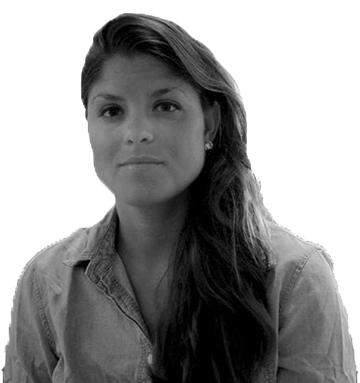
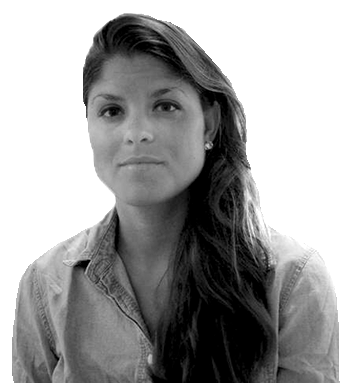
Links + Names
updated links to guest speaker and bfa website, updated photo of jessica, imported names in alpha order with links. Tested two photos (jake and jack), but letting you take over because i'm not sure how hoverable works. links are accessed through clicking the photos ideally

diff --git a/index.html b/index.html
@@ -57,6 +57,8 @@
     <img class="sideimg left bottom sizewidth" data-aos="fade-right" src="images/shapes/1.svg">
     <img class="sideimg right sizewidth" style="top: 9em;" data-aos="fade-left" src="images/shapes/2.svg">
   </section>
+
+<!-----------------------ABOUT SECTION----------------------------->
   <section class="blue" id="about">
     <div class="content">
       <div class="container">
@@ -76,7 +78,7 @@
               Friday, June 15 <br> Academic West 1-4PM <br>
             </h4>
             <h4>
-              Guest Speaker Eike Koenig <br> AW 204 11:30-1PM
+              Guest Speaker Jessica Karle <br> AW 204 11:30-1PM
             </h4>
               <div class="eight columns"></div>
           </div>
@@ -86,6 +88,9 @@
     <img class="sideimg left sizewidth" style="bottom: 4em;" data-aos="fade-right" src="images/shapes/3.svg">
     <img class="sideimg right sizeheight" style="top: 4em;" data-aos="fade-left" src="images/shapes/4.svg">
   </section>
+    
+    
+<!-------------JESSICA KARLE SECTION------------------------->
   <section class="orange" id="guest">
     <div class="content">
       <div class="container">
@@ -93,12 +98,13 @@
           <div class="seven columns">
             <h2>Jessica Karle</h2>
             <br><br>
-            <p>Jessica Karle is a designer and author currently based in San Francisco. She is the co-founder of prominent design publication, Kern and Bern and also serves the Head of Digital Design at Everlane. Alongside these accomplishments, Karle has worked many distinguished roles in companies such as Paperless Post and General Assembly. As a pioneer in digital design, come and hear Jessica talk about her experience in the industry.</p>
+            <p>Jessica Karle is a designer and author currently based in San Francisco. She is the co-founder of prominent design publication, Kern and Bern and also serves as the Head of Digital Design at Everlane. Alongside these accomplishments, Karle has worked many distinguished roles in companies such as Paperless Post and General Assembly. As a pioneer in digital design, come and hear Jessica talk about her experience in the industry.</p>
             <br><br>
-            <a href="#" class="blue button">View Her Work</a>
+            <a href="http://www.jessicakarle.com/" class="blue button" target="_blank">View Her Work</a>
           </div>
           <div class="four columns" style="margin-top: 1.5%; margin-left: 7%;">
             <h1>Guest Speaker</h1>
+            <div class="eight columns"><img src="images/Jess-BW.png"></div>
           </div>
         </div>
       </div>
@@ -106,6 +112,8 @@
     <img class="sideimg left sizeheight" style="bottom: 4em;" data-aos="fade-right" src="images/shapes/5.svg">
     <img class="sideimg right sizewidth" style="top: 4em;" data-aos="fade-left" src="images/shapes/6.svg">
   </section>
+    
+<!--------------BA SENIORS SECTION----------------------------->
   <section class="white" id="ba">
     <div class="content">
       <div class="container">
@@ -114,18 +122,176 @@
             <h1 class="blue">BA Seniors</h1>
           </div>
         </div>
+<!-------------1st ROW BA------------------------------------->
         <div class="row">
           <div class="three columns">
-            <a class="portrait" id="#" href="#"></a>
+            <a class="portrait" id="andersonjack" href="#"><img src="images/bapics/anderson_jack1.jpg" style="width: 100%;"></a>
+            <p class="name">Jack Anderson</p>
           </div>
           <div class="three columns">
-            <a class="portrait" id="#" href="#"></a>
+            <a class="portrait" id="andersonjake" href="http://www.jakejanderson.com" target="_blank"><img src="images/bapics/anderson_jake1.jpg" style="width: 100%"></a>
+            <p class="name">Jake Anderson</p>
           </div>
           <div class="three columns">
-            <a class="portrait" id="#" href="#"></a>
+            <a class="portrait" id="andersonsj" href="#"></a>
+            <p class="name">SJ Anderson</p>
           </div>
           <div class="three columns">
-            <a class="portrait" id="#" href="#"></a>
+            <a class="portrait" id="aultburch" href="#"></a>
+            <p class="name">Burch Ault</p>
+          </div>
+        </div>
+<!-----------2nd ROW BA-------------------------------------------->
+        <div class="row">
+          <div class="three columns">
+            <a class="portrait" id="bellbrooklyn" href="#"></a>
+            <p class="name">Brooklyn Bell</p>
+          </div>
+          <div class="three columns">
+            <a class="portrait" id="birdmouse" href="http://www.mousebird.xyz" target="_blank"></a>
+            <p class="name">Mouse Bird</p>
+          </div>
+          <div class="three columns">
+            <a class="portrait" id="buskoallyson" href="http://www.allysonbusko.com"></a>
+            <p class="name">Allyson Busko</p>
+          </div>
+          <div class="three columns">
+            <a class="portrait" id="caldwellskyler" href="#"></a>
+            <p class="name">Skyler Caldwell-Olsen</p>
+          </div>
+        </div>
+<!---------------3rd ROW BA-------------------------------------------->
+        <div class="row">
+          <div class="three columns">
+            <a class="portrait" id="cederbergsarah" href="http://www.sarahcederberg.com"></a>
+            <p class="name">Sarah Cederberg</p>
+          </div>
+          <div class="three columns">
+            <a class="portrait" id="churchkaitlyn" href="http://www.kaitlynchurch.com" target="_blank"></a>
+            <p class="name">Kaitlyn Church</p>
+          </div>
+          <div class="three columns">
+            <a class="portrait" id="danbysaige" href="http://www.saigedanby.com"></a>
+            <p class="name">Saige Danby</p>
+          </div>
+          <div class="three columns">
+            <a class="portrait" id="dierkenfrances" href="http://www.frances.dierken.com"></a>
+            <p class="name">Frances Dierken</p>
+          </div>
+        </div>
+<!---------------4th ROW BA-------------------------------------------->
+        <div class="row">
+          <div class="three columns">
+            <a class="portrait" id="dumassarah" href="http://www.sarahdumas.com" target="_blank"></a>
+            <p class="name">Sarah Dumas</p>
+          </div>
+          <div class="three columns">
+            <a class="portrait" id="hammonkerry" href="http://www.kurihannam.wixsite.com/kerryhportfolio"></a>
+            <p class="name">Kerry Hammond</p>
+          </div>
+          <div class="three columns">
+            <a class="portrait" id="hiestandally" href="http://www.allyhiestand.com"></a>
+            <p class="name">Ally Hiestand</p>
+          </div>
+          <div class="three columns">
+            <a class="portrait" id="howeliz" href="#"></a>
+            <p class="name">Liz Howe</p>
+          </div>
+        </div>
+        
+<!---------------5th ROW BA-------------------------------------------->
+        <div class="row">
+          <div class="three columns">
+            <a class="portrait" id="kimmerlyamry" href="http://www.amrykimmerly.com" target="_blank"></a>
+            <p class="name">Amry Kimmerly</p>
+          </div>
+          <div class="three columns">
+            <a class="portrait" id="larsonluke" href="http://www.lukejameslarson.com"></a>
+            <p class="name">Luke Larson</p>
+          </div>
+          <div class="three columns">
+            <a class="portrait" id="luquekatelyn" href="http://www.katelynluque.com"></a>
+            <p class="name">Katelyn Luque</p>
+          </div>
+          <div class="three columns">
+            <a class="portrait" id="marcosmarie" href="#"></a>
+            <p class="name">Marie Marcos</p>
+          </div>
+        </div>
+<!---------------6th ROW BA-------------------------------------------->
+        <div class="row">
+          <div class="three columns">
+            <a class="portrait" id="maynardscott" href="#" target="_blank"></a>
+            <p class="name">Scott Maynard</p>
+          </div>
+          <div class="three columns">
+            <a class="portrait" id="minkemamadeline" href="http://www.madelineminkema.com"></a>
+            <p class="name">Madeline Minkema</p>
+          </div>
+          <div class="three columns">
+            <a class="portrait" id="nguyenduong" href="http://www.duongdnguyen.com"></a>
+            <p class="name">Duong Nguyen</p>
+          </div>
+          <div class="three columns">
+            <a class="portrait" id="ormmaney" href="http://www.maneyorm.com"></a>
+            <p class="name">Maney Orm</p>
+          </div>
+        </div>
+<!---------------7th ROW BA-------------------------------------------->
+        <div class="row">
+          <div class="three columns">
+            <a class="portrait" id="parzialegrace" href="#" target="_blank"></a>
+            <p class="name">Grace Parziale</p>
+          </div>
+          <div class="three columns">
+            <a class="portrait" id="plagerfinn" href="http://www.finnpiper.com"></a>
+            <p class="name">Finn Plager</p>
+          </div>
+          <div class="three columns">
+            <a class="portrait" id="ruppelmaddy" href="#"></a>
+            <p class="name">Maddy Ruppel</p>
+          </div>
+          <div class="three columns">
+            <a class="portrait" id="sanderskaitlyn" href="http://www.kaitlynsandersdsgn.wixsite.com/portfolio"></a>
+            <p class="name">Kaitlyn Sanders</p>
+          </div>
+        </div>
+<!---------------8th ROW BA-------------------------------------------->
+        <div class="row">
+          <div class="three columns">
+            <a class="portrait" id="semezmarina" href="http://www.marinasemez.com" target="_blank"></a>
+            <p class="name">Marina Semez</p>
+          </div>
+          <div class="three columns">
+            <a class="portrait" id="spengleramy" href="http://www.amyspengler.com"></a>
+            <p class="name">Amy Spengler</p>
+          </div>
+          <div class="three columns">
+            <a class="portrait" id="thackerbrandon" href="http://www.thackerdesigns.com"></a>
+            <p class="name">Brandon Thacker</p>
+          </div>
+          <div class="three columns">
+            <a class="portrait" id="thomsenlaura" href="http://www.lthomsen.com"></a>
+            <p class="name">Laura Thomsen</p>
+          </div>
+        </div>
+<!---------------9th ROW BA-------------------------------------------->
+        <div class="row">
+          <div class="three columns">
+            <a class="portrait" id="trieuhao" href="http://www.haotrieu.com" target="_blank"></a>
+            <p class="name">Hao Trieu</p>
+          </div>
+          <div class="three columns">
+            <a class="portrait" id="turnerparkavi" href="#"></a>
+            <p class="name">Parkavi Turner</p>
+          </div>
+          <div class="three columns">
+            <a class="portrait" id="voyedavid" href="#"></a>
+            <p class="name">David Voye</p>
+          </div>
+          <div class="three columns">
+            <a class="portrait" id="wernerevelyn" href="#"></a>
+            <p class="name">Evelyn Werner</p>
           </div>
         </div>
       </div>
@@ -135,6 +301,8 @@
     <img class="sideimg left sizeheight" style="bottom: 4em;" data-aos="fade-right" src="images/shapes/9.svg">
     <img class="sideimg right sizewidth" style="top: 4em;" data-aos="fade-left" src="images/shapes/10.svg">
   </section>
+    
+<!-------------------------BFA SECTION----------------------------->
   <section class="blue" id="bfa">
     <div class="content">
       <div class="container">
@@ -142,9 +310,9 @@
           <div class="four columns">
             <h1>BFA Seniors</h1>
             <br>
-            <p>The Design BFA is an optional extra year of the program. They’ve been hard at work on their projects as well. Check out the link below to see their cool site.</p>
+            <p>The Design BFA is an optional extra year of the design program where they can further improve their skills and explore their potential. They’ve been hard at work on their projects all year and have dedicated their time to further mastering the craft. Check out the link below to see their awesome site.</p>
             <br><br>
-            <a href="#" class="orange button">Visit Their Website</a>
+            <a href="http://www.wwu.edu/studesigndept/" class="orange button" target="_blank">Visit Their Website</a>
           </div>
         </div>
       </div>
@@ -152,6 +320,8 @@
     <img class="sideimg left sizewidth" style="bottom: 4em;" data-aos="fade-right" src="images/shapes/11.svg">
     <img class="sideimg right sizewidth" style="top: 4em;" data-aos="fade-left" src="images/shapes/12.svg">
   </section>
+    
+<!--------------DIRECTIONS SECTION----------------------------->
   <section class="orange" id="directions">
     <div class="content">
       <div class="container">
